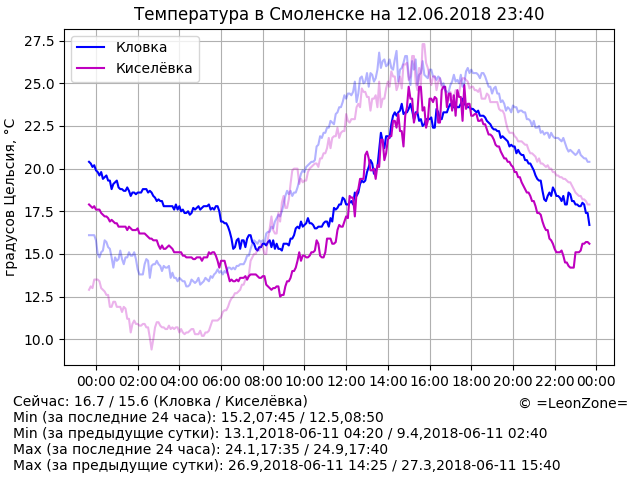
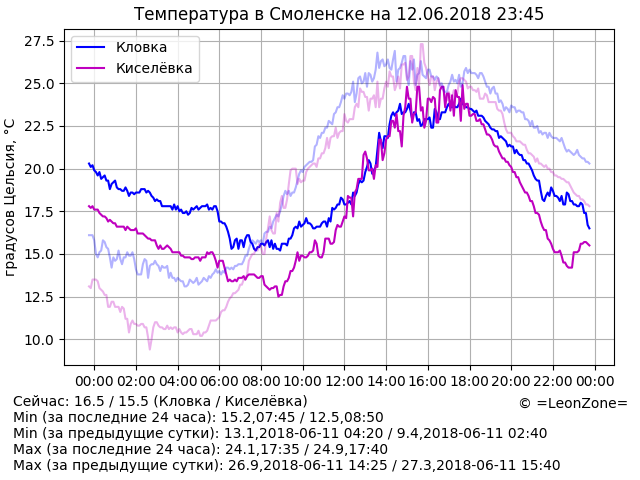
Update data

Changed region(s): [[0.125, 0.0625, 0.9375, 0.7188], [0.0938, 0.7812, 0.9688, 0.8438]]

diff --git a/index.html b/index.html
@@ -14,7 +14,7 @@
 	<p align="center"><script>document.write("<img src=\"graph.png?rnd="+Math.random()+"\" alt=\"Температура в Смоленске\" align=\"middle\" width=\"640\" height=\"480\" />")</script>
 	<p hidden="true">
 <!-- textinfo -->
-Сейчас: 16.7 / 15.6 (Кловка / Киселёвка)
+Сейчас: 16.5 / 15.5 (Кловка / Киселёвка)
 Min (за последние 24 часа): 15.2,07:45 / 12.5,08:50
 Min (за предыдущие сутки): 13.1,2018-06-11 04:20 / 9.4,2018-06-11 02:40
 Max (за последние 24 часа): 24.1,17:35 / 24.9,17:40
